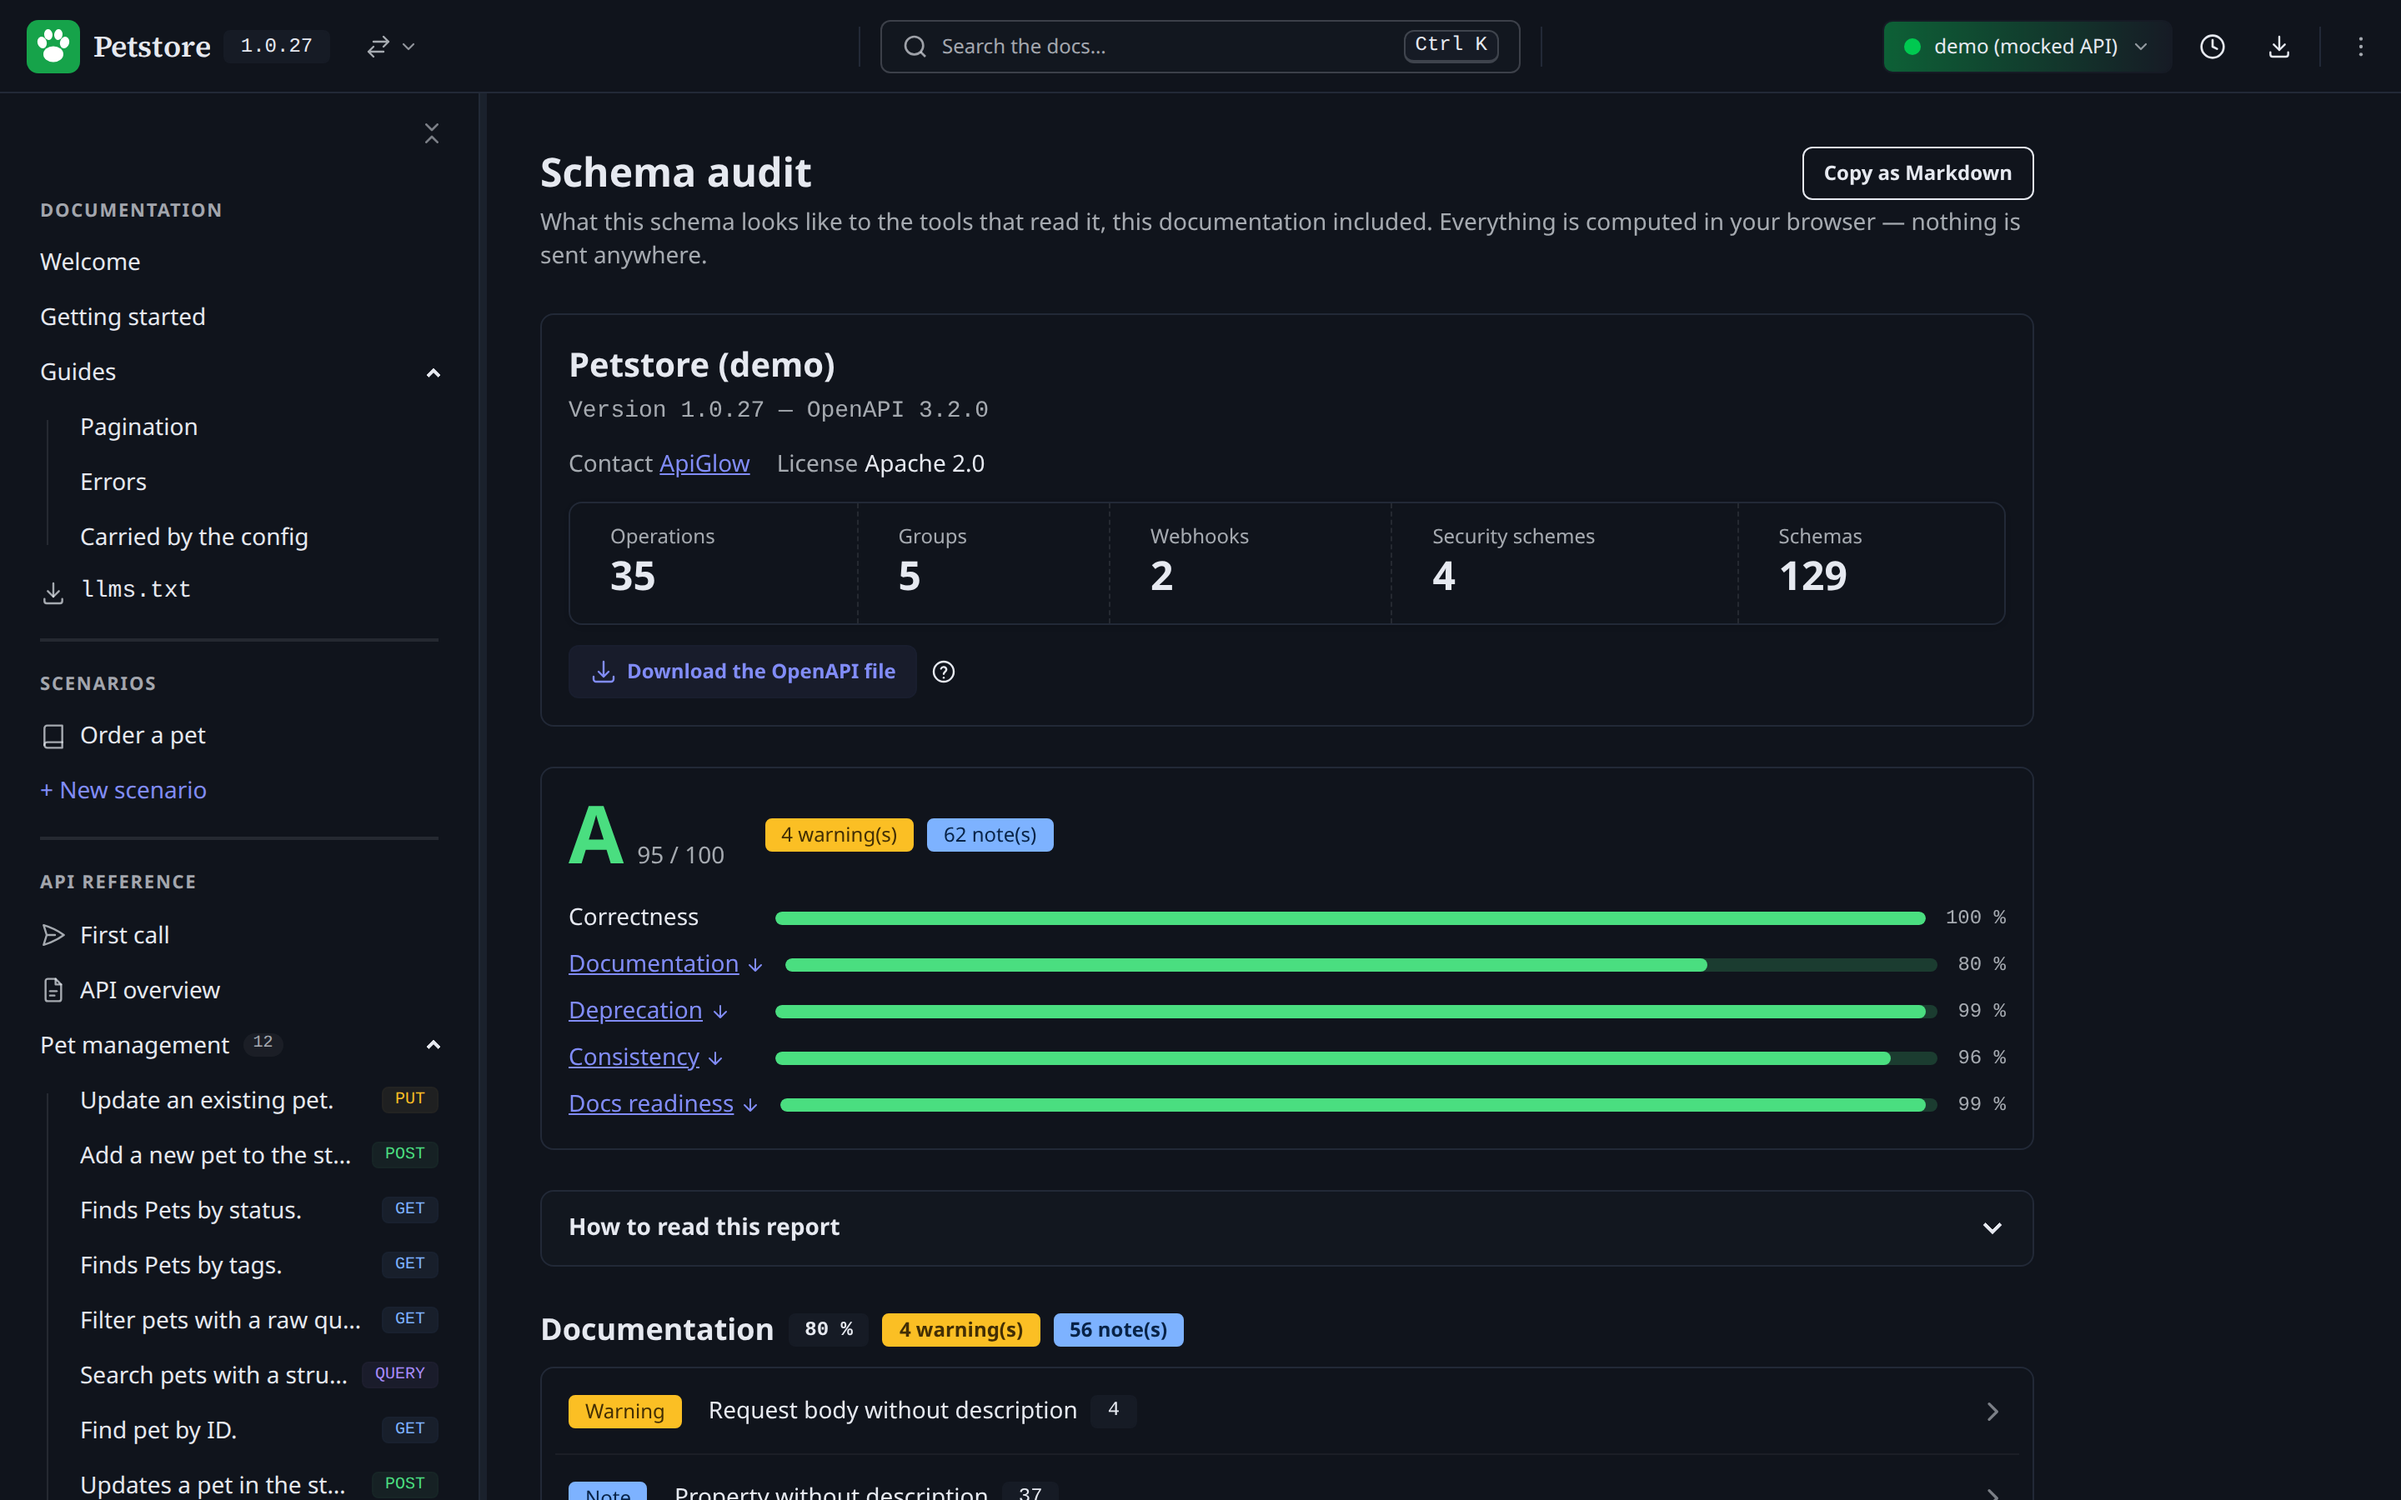
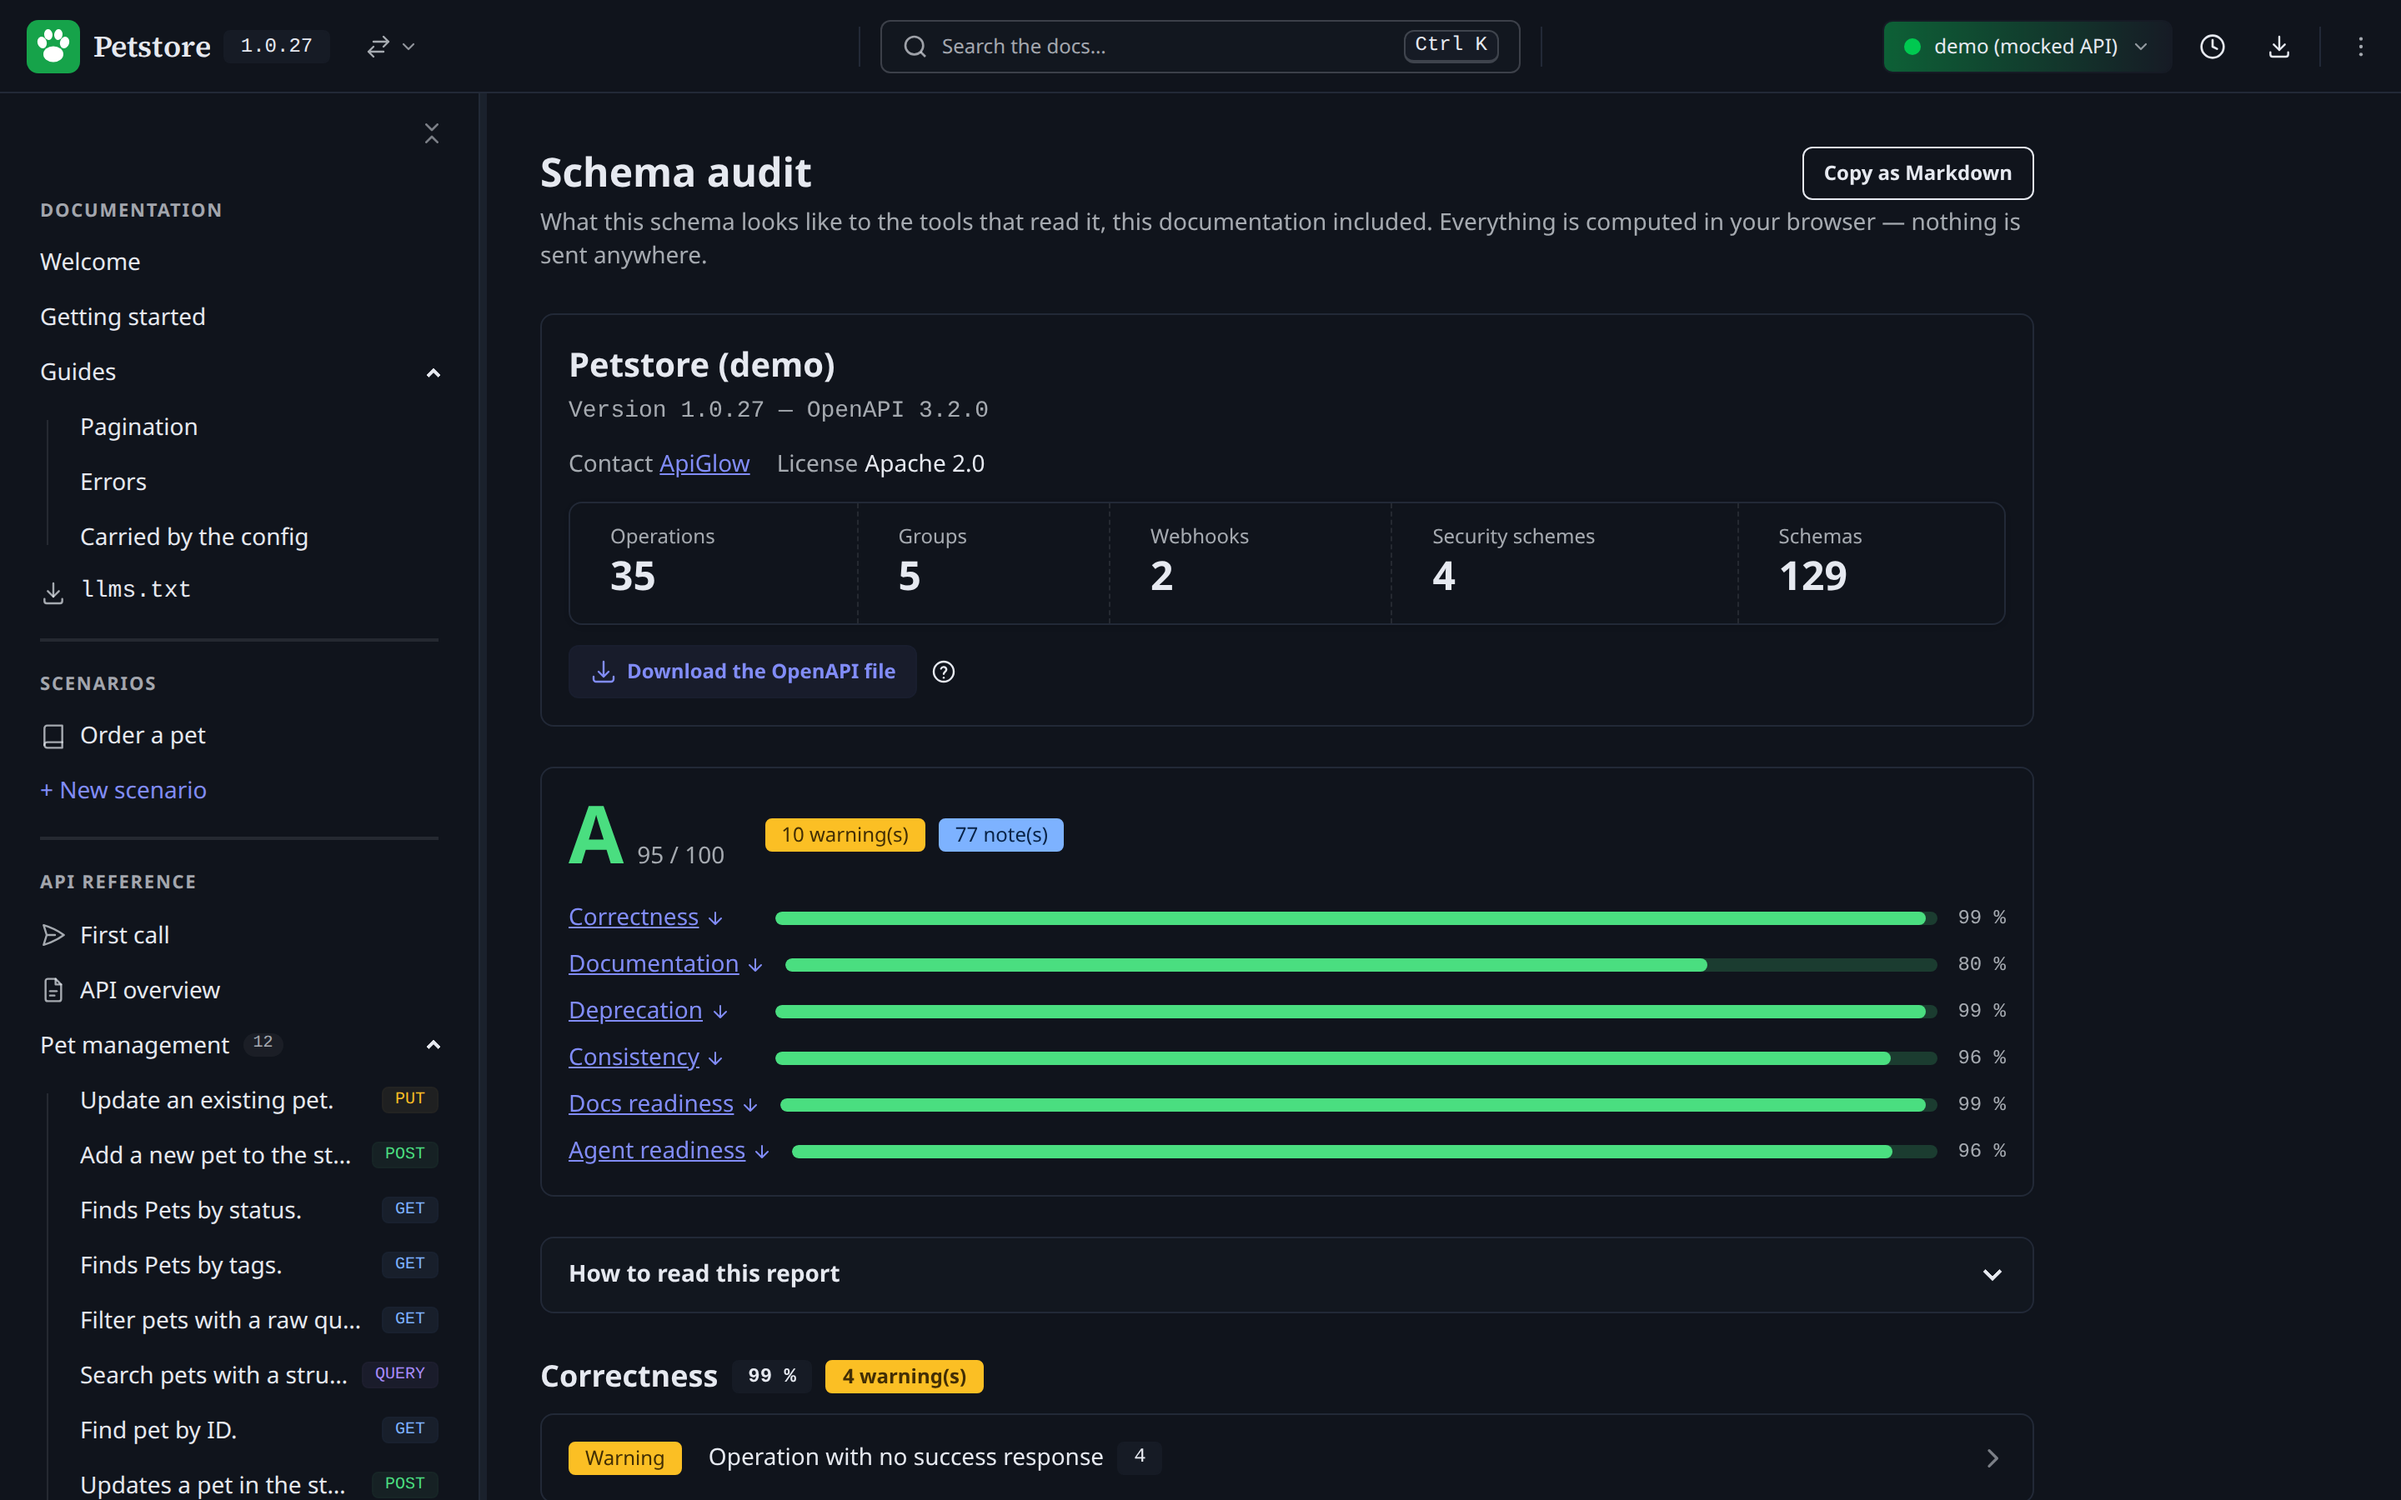
docs: re-shoot the audit screenshots with six categories

diff --git a/README.md b/README.md
@@ -146,7 +146,7 @@ each, a letter grade, and a Markdown report for the ticket. In the browser — n
 
 <picture>
 <source media="(prefers-color-scheme: dark)" srcset="https://raw.githubusercontent.com/apiglow/apiglow/main/.github/readme/audit-dark.png">
-<img src="https://raw.githubusercontent.com/apiglow/apiglow/main/.github/readme/audit-light.png" alt="The schema audit page: grade A, five category scores, findings folded by rule" width="920">
+<img src="https://raw.githubusercontent.com/apiglow/apiglow/main/.github/readme/audit-light.png" alt="The schema audit page: grade A, six category scores, findings folded by rule" width="920">
 </picture>
 
 *The demo schema's report card — grade, category scores, folded findings.*
